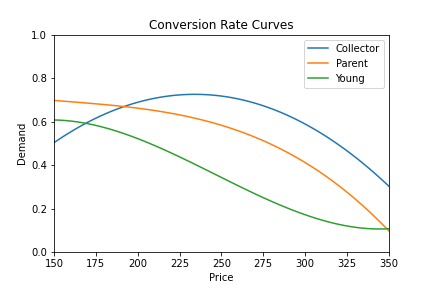
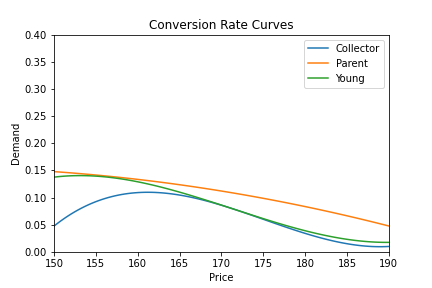
Step 0 with clairvoyant

diff --git a/Environments/Users.py b/Environments/Users.py
@@ -3,7 +3,10 @@ import numpy as np
 import matplotlib.pyplot as plt
 from scipy.optimize import curve_fit
 
-from param import min_bid, max_bid, min_price, max_price, std_noise_pricing, std_noise_cost, std_noise_click, production_cost
+from param import min_bid, max_bid, min_price, max_price, production_cost
+from param import std_noise_pricing, std_noise_cost, std_noise_click
+from param import p1_stationary, p2_stationary, p3_stationary, max_conversion_rate
+
 class User(ABC):
     """
     Abstract class used to define User
@@ -92,7 +95,7 @@ class User(ABC):
         plt.xlabel('Price')
         plt.ylabel('Demand')
         plt.xlim(self._min_price, self._max_price)
-        plt.ylim(0, 1)
+        plt.ylim(0, max_conversion_rate)
         plt.title('Conversion Rate Curve for user class')
         return plt.plot(prices, demand)  # lable=self.__class__.__name__
 
@@ -160,8 +163,7 @@ class User(ABC):
         cost = self.cost_vs_bid(bids)
         plt.xlabel('Bid')
         plt.ylabel('Cost')
-        plt.xlim(0, 1)
-        # plt.ylim(0, 1)
+        plt.xlim(self._min_bid, self._max_bid)
         plt.title('Cost vs Bid Curve for user class')
         return plt.plot(bids, cost)
     
@@ -173,8 +175,7 @@ class User(ABC):
         noisy_clicks = self.generate_click_bid_observations(bids)
         plt.xlabel('Bid')
         plt.ylabel('Click')
-        plt.xlim(0, 1)
-        # plt.ylim(0, 1)
+        plt.xlim(self._min_bid, self._max_bid)
         plt.title('Noisy Click vs Bid Curve for user class')
         return plt.plot(bids, noisy_clicks, "o")
     
@@ -186,8 +187,7 @@ class User(ABC):
         noisy_cost = self.generate_cost_bid_observations(bids)
         plt.xlabel('Bid')
         plt.ylabel('Cost')
-        plt.xlim(0, 1)
-        # plt.ylim(0, 1)
+        plt.xlim(self._min_bid, self._max_bid)
         plt.title('Noisy Cost vs Bid Curve for user class')
         return plt.plot(bids, noisy_cost, "o")
         
@@ -199,8 +199,7 @@ class User(ABC):
         avg_cumulative_daily_cost = self.cost_vs_bid(bids) * self.click_vs_bid(bids)
         plt.xlabel('Bid')
         plt.ylabel('Average cumulative daily cost of clicks')
-        plt.xlim(0, 1)
-        # plt.ylim(0, 1)
+        plt.xlim(self._min_bid, self._max_bid)
         plt.title('Average cumulative daily cost vs Bid Curve for user class')
         return plt.plot(bids, avg_cumulative_daily_cost)
 
@@ -208,14 +207,14 @@ class User(ABC):
     #    Clairvoyant method    #
     ############################
     
-    def clairvoyant(self, production_cost):
+    def clairvoyant(self):
         best_bid = 0
         best_price = 0
         opt = 0
         bids = np.linspace(self._min_bid, self._max_bid, 100)
         for i in bids:
             for id_j, j in enumerate(self._prices):
-                aux = self.click_vs_bid(i) * (self.probabilities[id_j]*(j-production_cost) - self.cost_vs_bid(i))
+                aux = self.click_vs_bid(i) * (self.probabilities[id_j]*(j-self.production_cost) - self.cost_vs_bid(i))
                 if (aux > opt):
                     best_bid = i
                     best_price = j
@@ -226,13 +225,13 @@ class User(ABC):
         return self.click_vs_bid(bid) * (self.demand_curve(price)*(price-production_cost) - self.cost_vs_bid(bid))
     
     def plot_general_reward(self):
-        fig = plt.figure(facecolor='white')
+        plt.figure(facecolor='white')
         prices = np.linspace(self._min_price, self._max_price, 200)
         bids = np.linspace(self._min_bid, self._max_bid, 200)
         reward = np.zeros((len(prices), len(bids)))
         for id_i, i in enumerate(prices):
             for id_j, j in enumerate(bids):
-                reward[id_i, id_j] = self.general_reward(i, j, self.production_cost)
+                reward[id_j, id_i] = self.general_reward(price=i, bid=j, production_cost= self.production_cost)
         plt.xlabel('Price')
         plt.ylabel('Bid')
         plt.xlim(self._min_price, self._max_price)
@@ -240,7 +239,7 @@ class User(ABC):
         plt.title('General reward for user class')
         plt.contourf(prices, bids, reward, 100)
         plt.colorbar()
-        return fig
+        return
 
 class UserC1(User):
     """
@@ -249,7 +248,7 @@ class UserC1(User):
     """
 
     def __init__(self):
-        super().__init__(True, True, np.array([0.2, 0.4, 0.4, 0.1, 0.05]))
+        super().__init__(True, True, p1_stationary)
 
     def click_vs_bid(self, bid):
         bid = (bid - self._min_bid) / (self._max_bid - self._min_bid)
@@ -267,7 +266,7 @@ class UserC2(User):
     Parent User
     """
     def __init__(self):
-        probabilities = np.array([0.4, 0.35, 0.3, 0.15, 0.1])
+        probabilities = p2_stationary
         super().__init__(True, False, probabilities)
 
     def click_vs_bid(self, bid):
@@ -287,7 +286,7 @@ class UserC3(User):
     def __init__(self):
         feature1 = False
         feature2 = np.random.choice([True, False])
-        probabilities = np.array([0.4, 0.35, 0.3, 0.1, 0.05])
+        probabilities = p3_stationary
         super().__init__(feature1, feature2, probabilities)
     
     def click_vs_bid(self, bid):

diff --git a/step_0.py b/step_0.py
@@ -77,15 +77,18 @@ fig.savefig("results/S0_avg_cumulative_cost_vs_bid.png")
 
 
 # %% Clairvoyant reward
-fig = Collector.plot_general_reward(production_cost)
+Collector.plot_general_reward()
+fig = plt.gcf()
 fig.savefig("results/S0_clairvoyant_reward_Collector.png")
 
 # %%
-fig = Parent.plot_general_reward(production_cost)
+Parent.plot_general_reward()
+fig = plt.gcf()
 fig.savefig("results/S0_clairvoyant_reward_Parent.png")
 
 # %%
-fig = Young.plot_general_reward(production_cost)
+fig = Young.plot_general_reward()
+fig = plt.gcf()
 fig.savefig("results/S0_clairvoyant_reward_Young.png")
 
 # %%

diff --git a/param.py b/param.py
@@ -1,9 +1,11 @@
+import numpy as np
+
 min_price = 150
 max_price = 190
 std_noise_pricing = 10
 
 min_bid = 0.01
-max_bid = 1.0
+max_bid = 5.0
 std_noise_cost = (max_bid - min_bid) * 0.1
 std_noise_click = 10
 
@@ -18,3 +20,8 @@ production_cost = 100
 
 std_noise_general = 10
 
+
+p1_stationary = np.array([0.05, 0.1, 0.1, 0.025, 0.0125])
+p2_stationary = np.array([0.15, 0.125, 0.125, 0.075, 0.05])
+p3_stationary = np.array([0.14, 0.12, 0.10, 0.03, 0.02])
+max_conversion_rate = 0.4 # for plots
